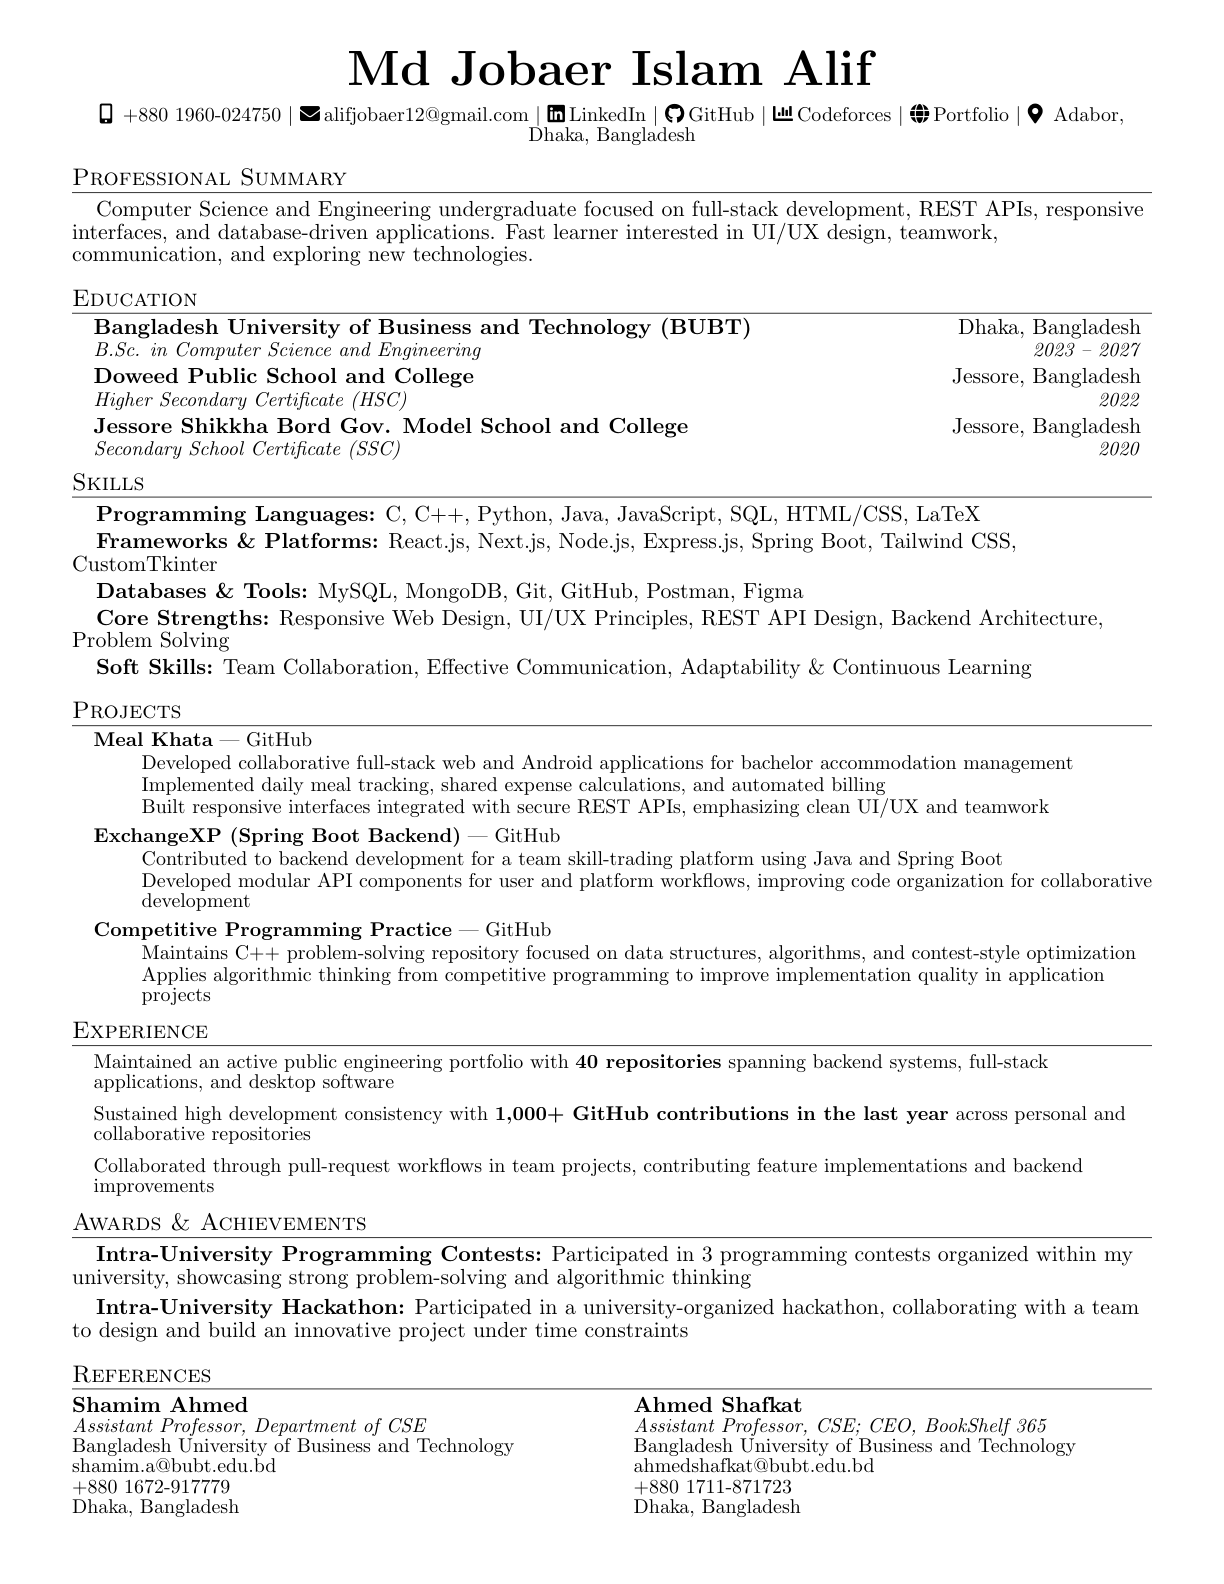
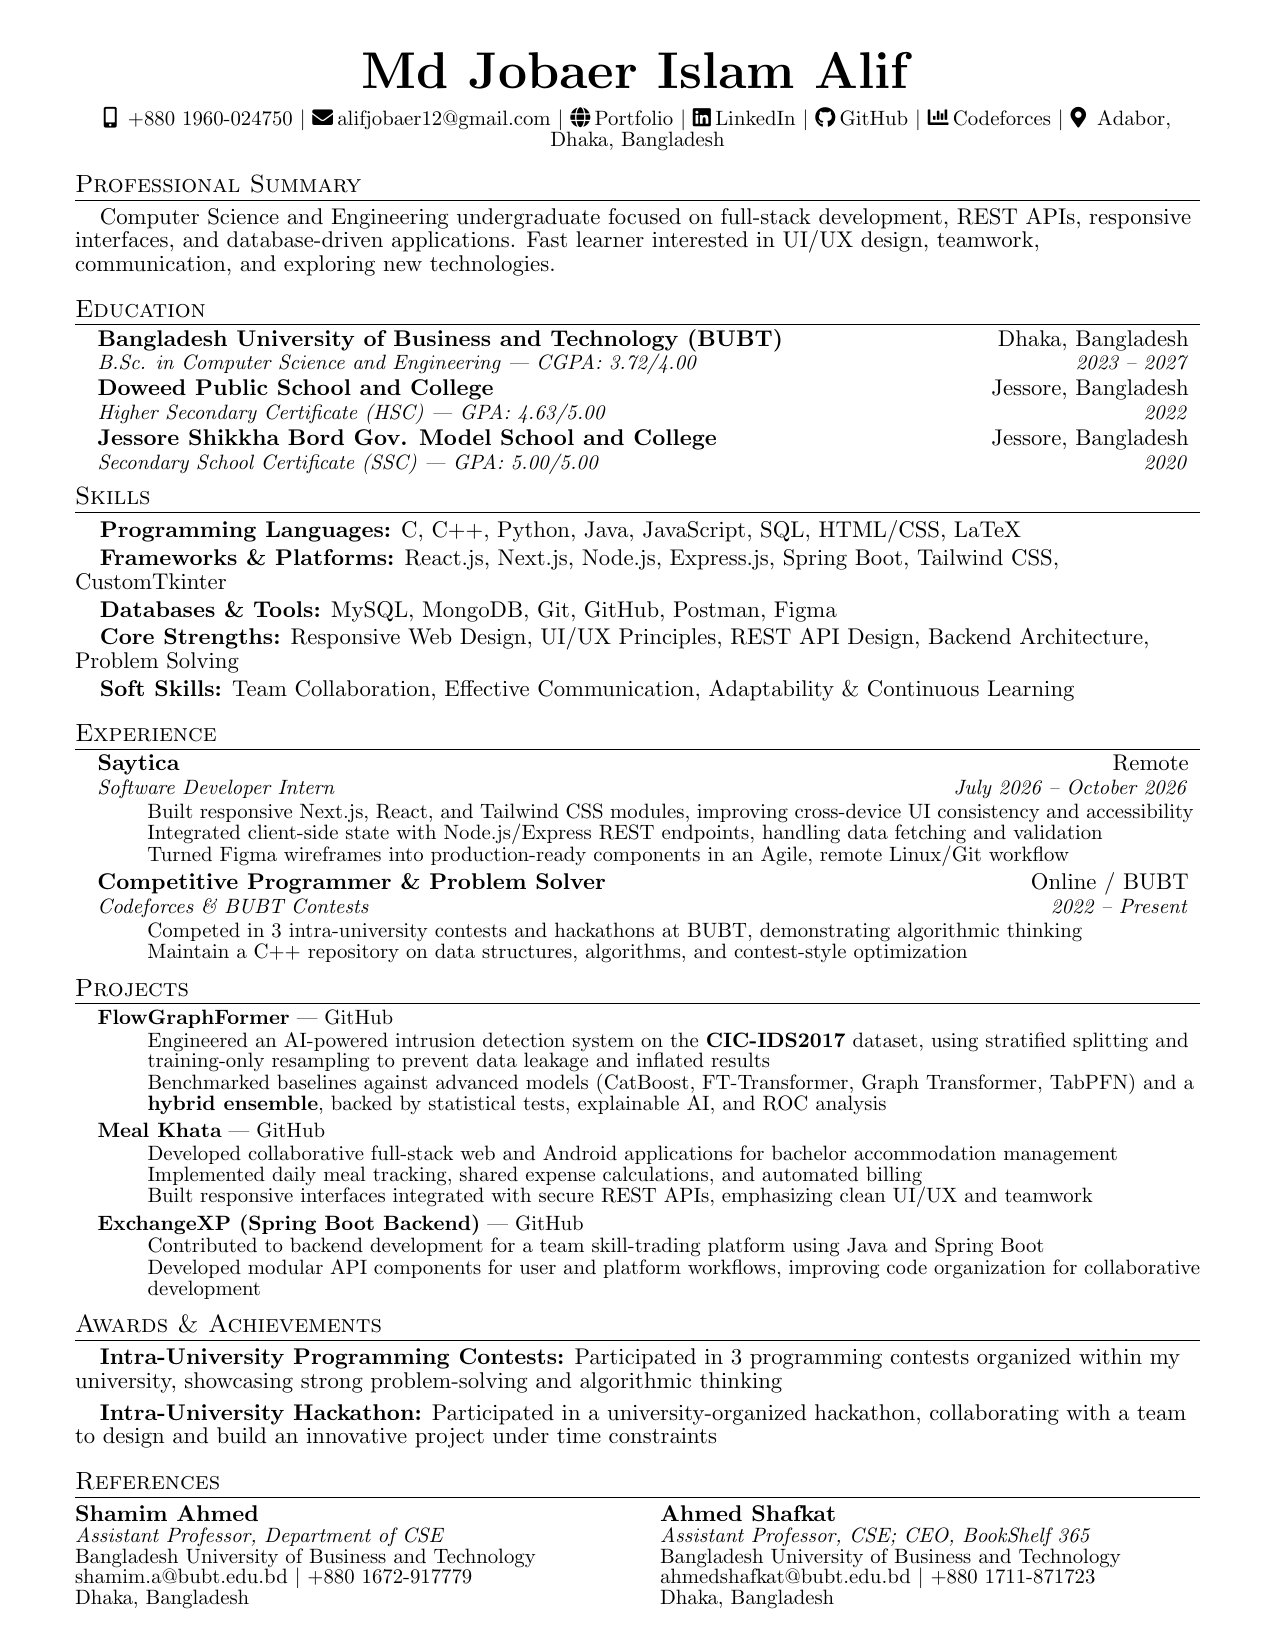
update README with revised resume preview description and portfolio link

diff --git a/README.md b/README.md
@@ -32,8 +32,7 @@ If you publish tagged releases, add resume PDFs there so recruiters can always g
 |------|-------------|
 | `main.tex` | Main LaTeX source |
 | `main.pdf` | Compiled resume |
-| `jpg/cv-preview-page-1.png` | Resume preview page 1 |
-| `jpg/cv-preview-page-2.png` | Resume preview page 2 |
+| `jpg/cv-preview-page-1.png` | Resume preview (single page) |
 | `README.md` | This file |
 
 ---
@@ -60,7 +59,7 @@ pdflatex main.tex
 ## 👤 About Me
 - **Email:** alifjobaer12@gmail.com  
 - **LinkedIn:** https://www.linkedin.com/in/alifjobaer12  
-- **Portfolio:** http://alifjobaer12.me 
+- **Portfolio:** http://alifjobaer12.vercel.app 
 - **GitHub:** https://github.com/alifjobaer12  
 
 ---
